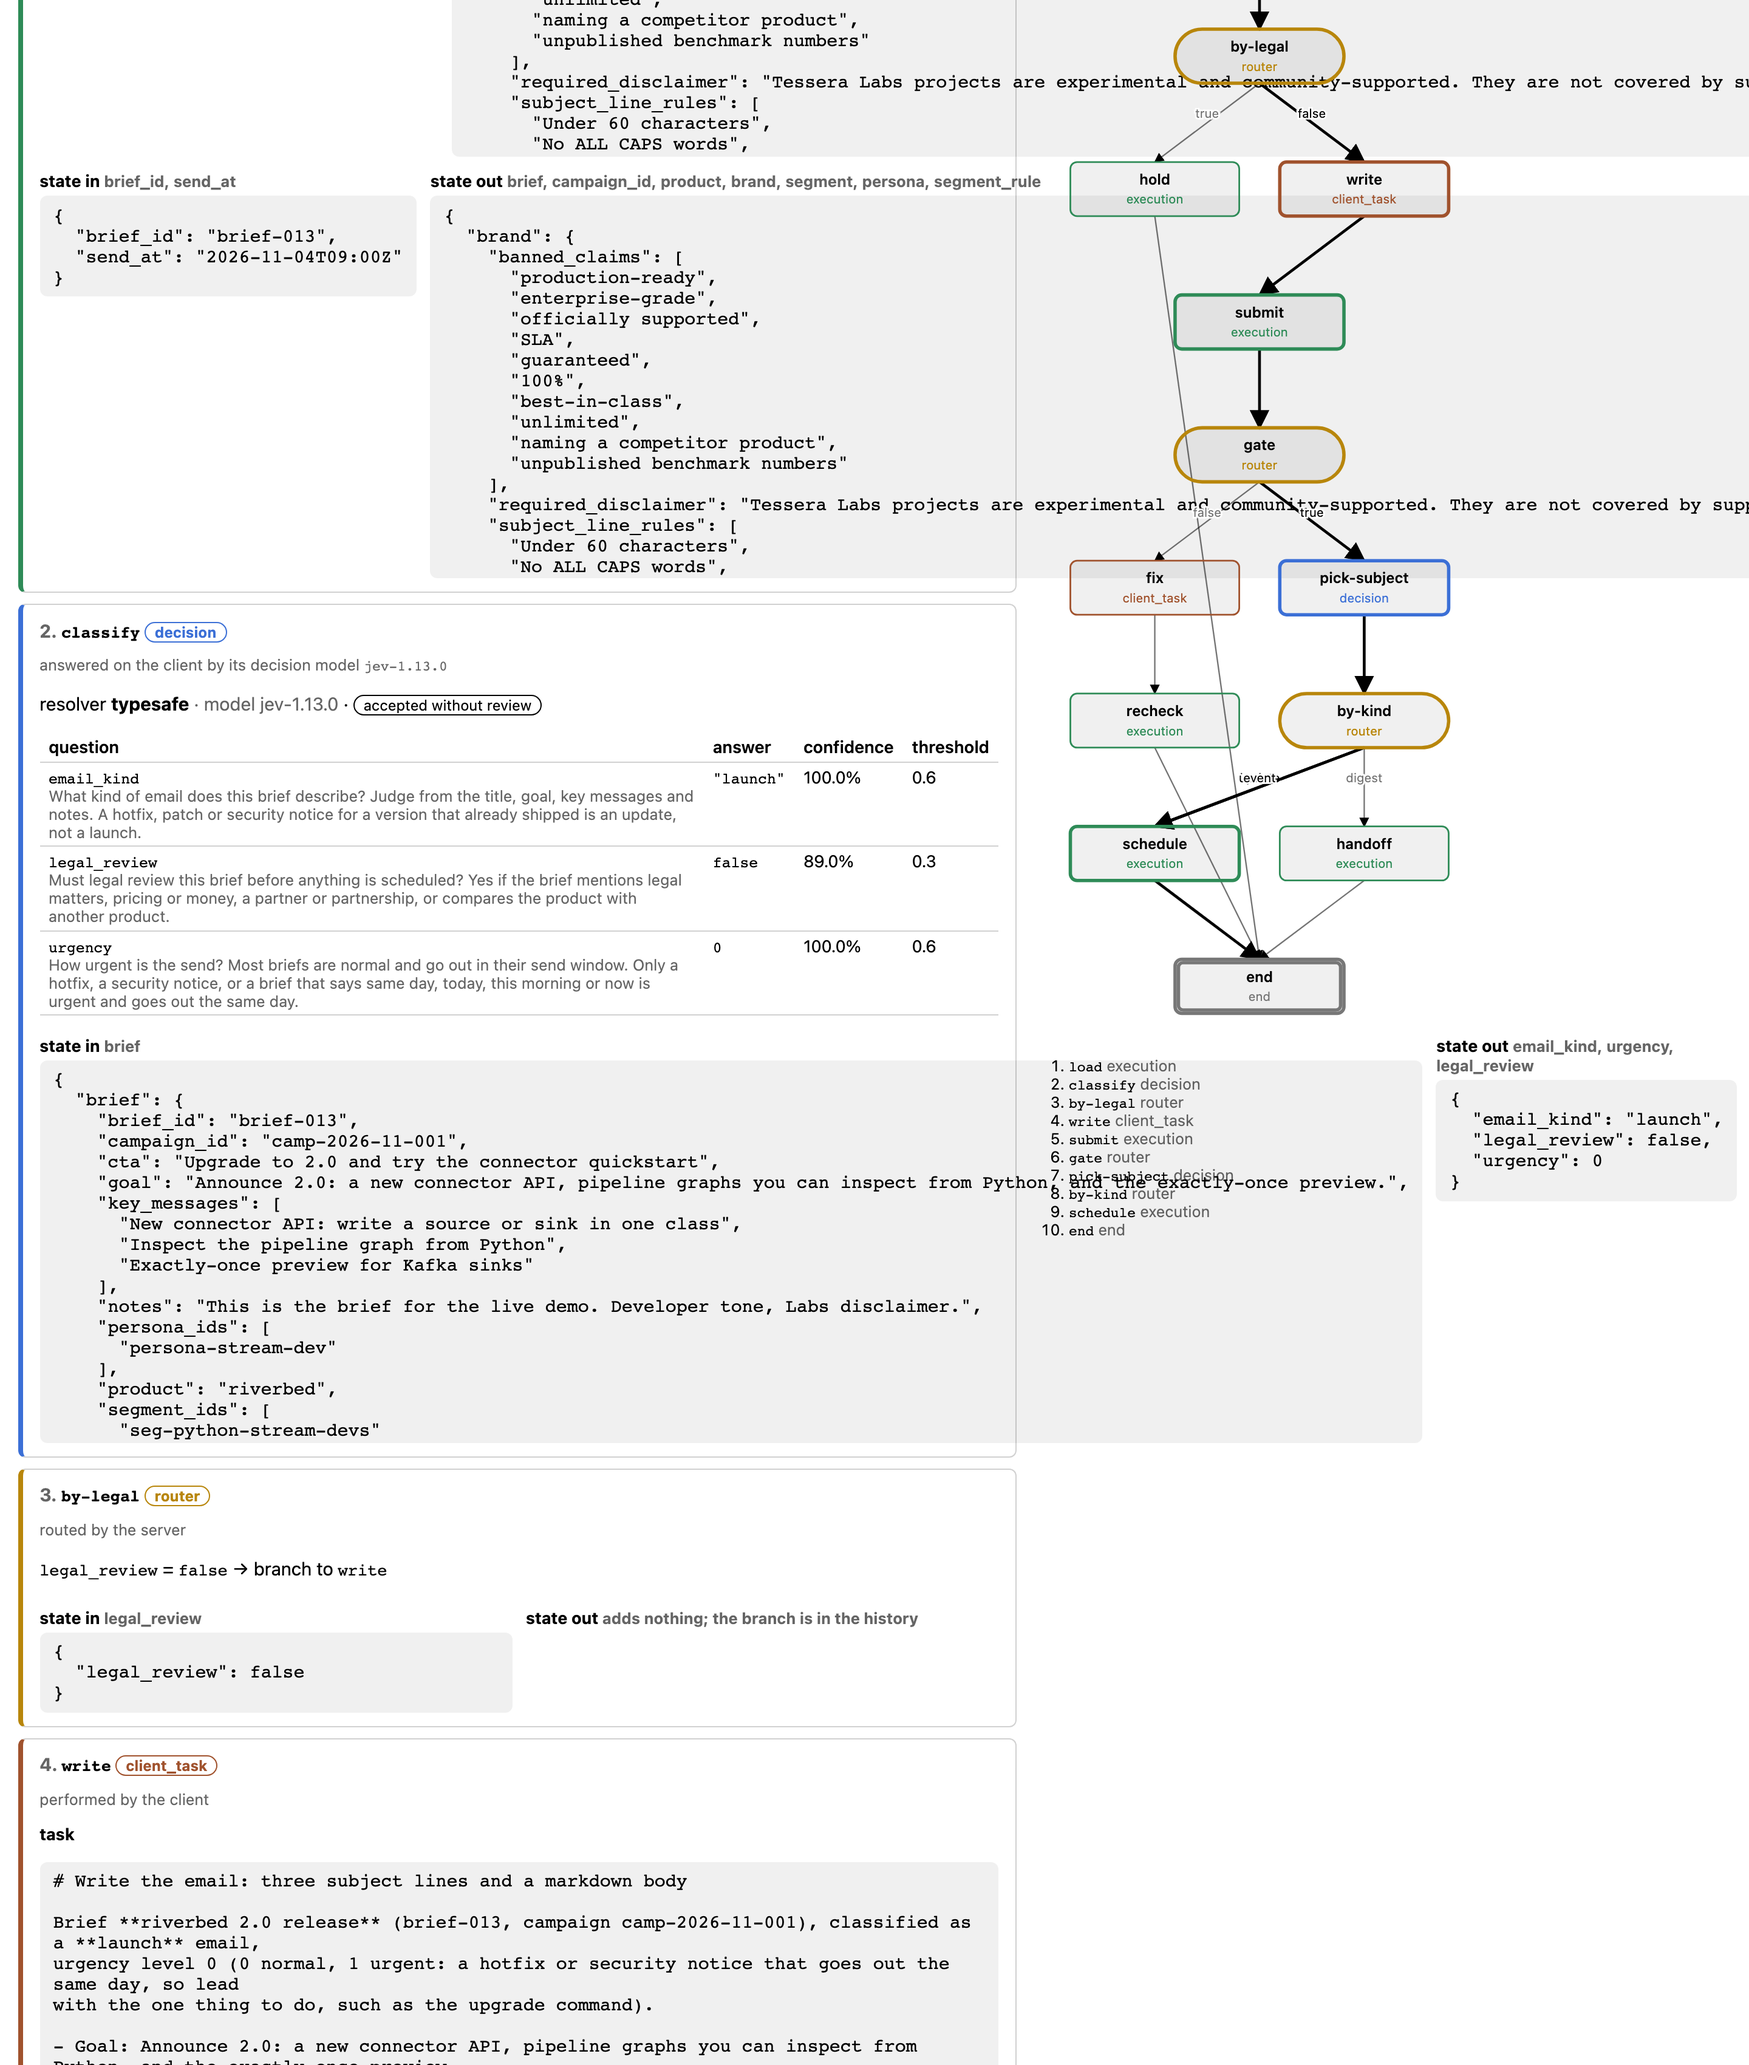
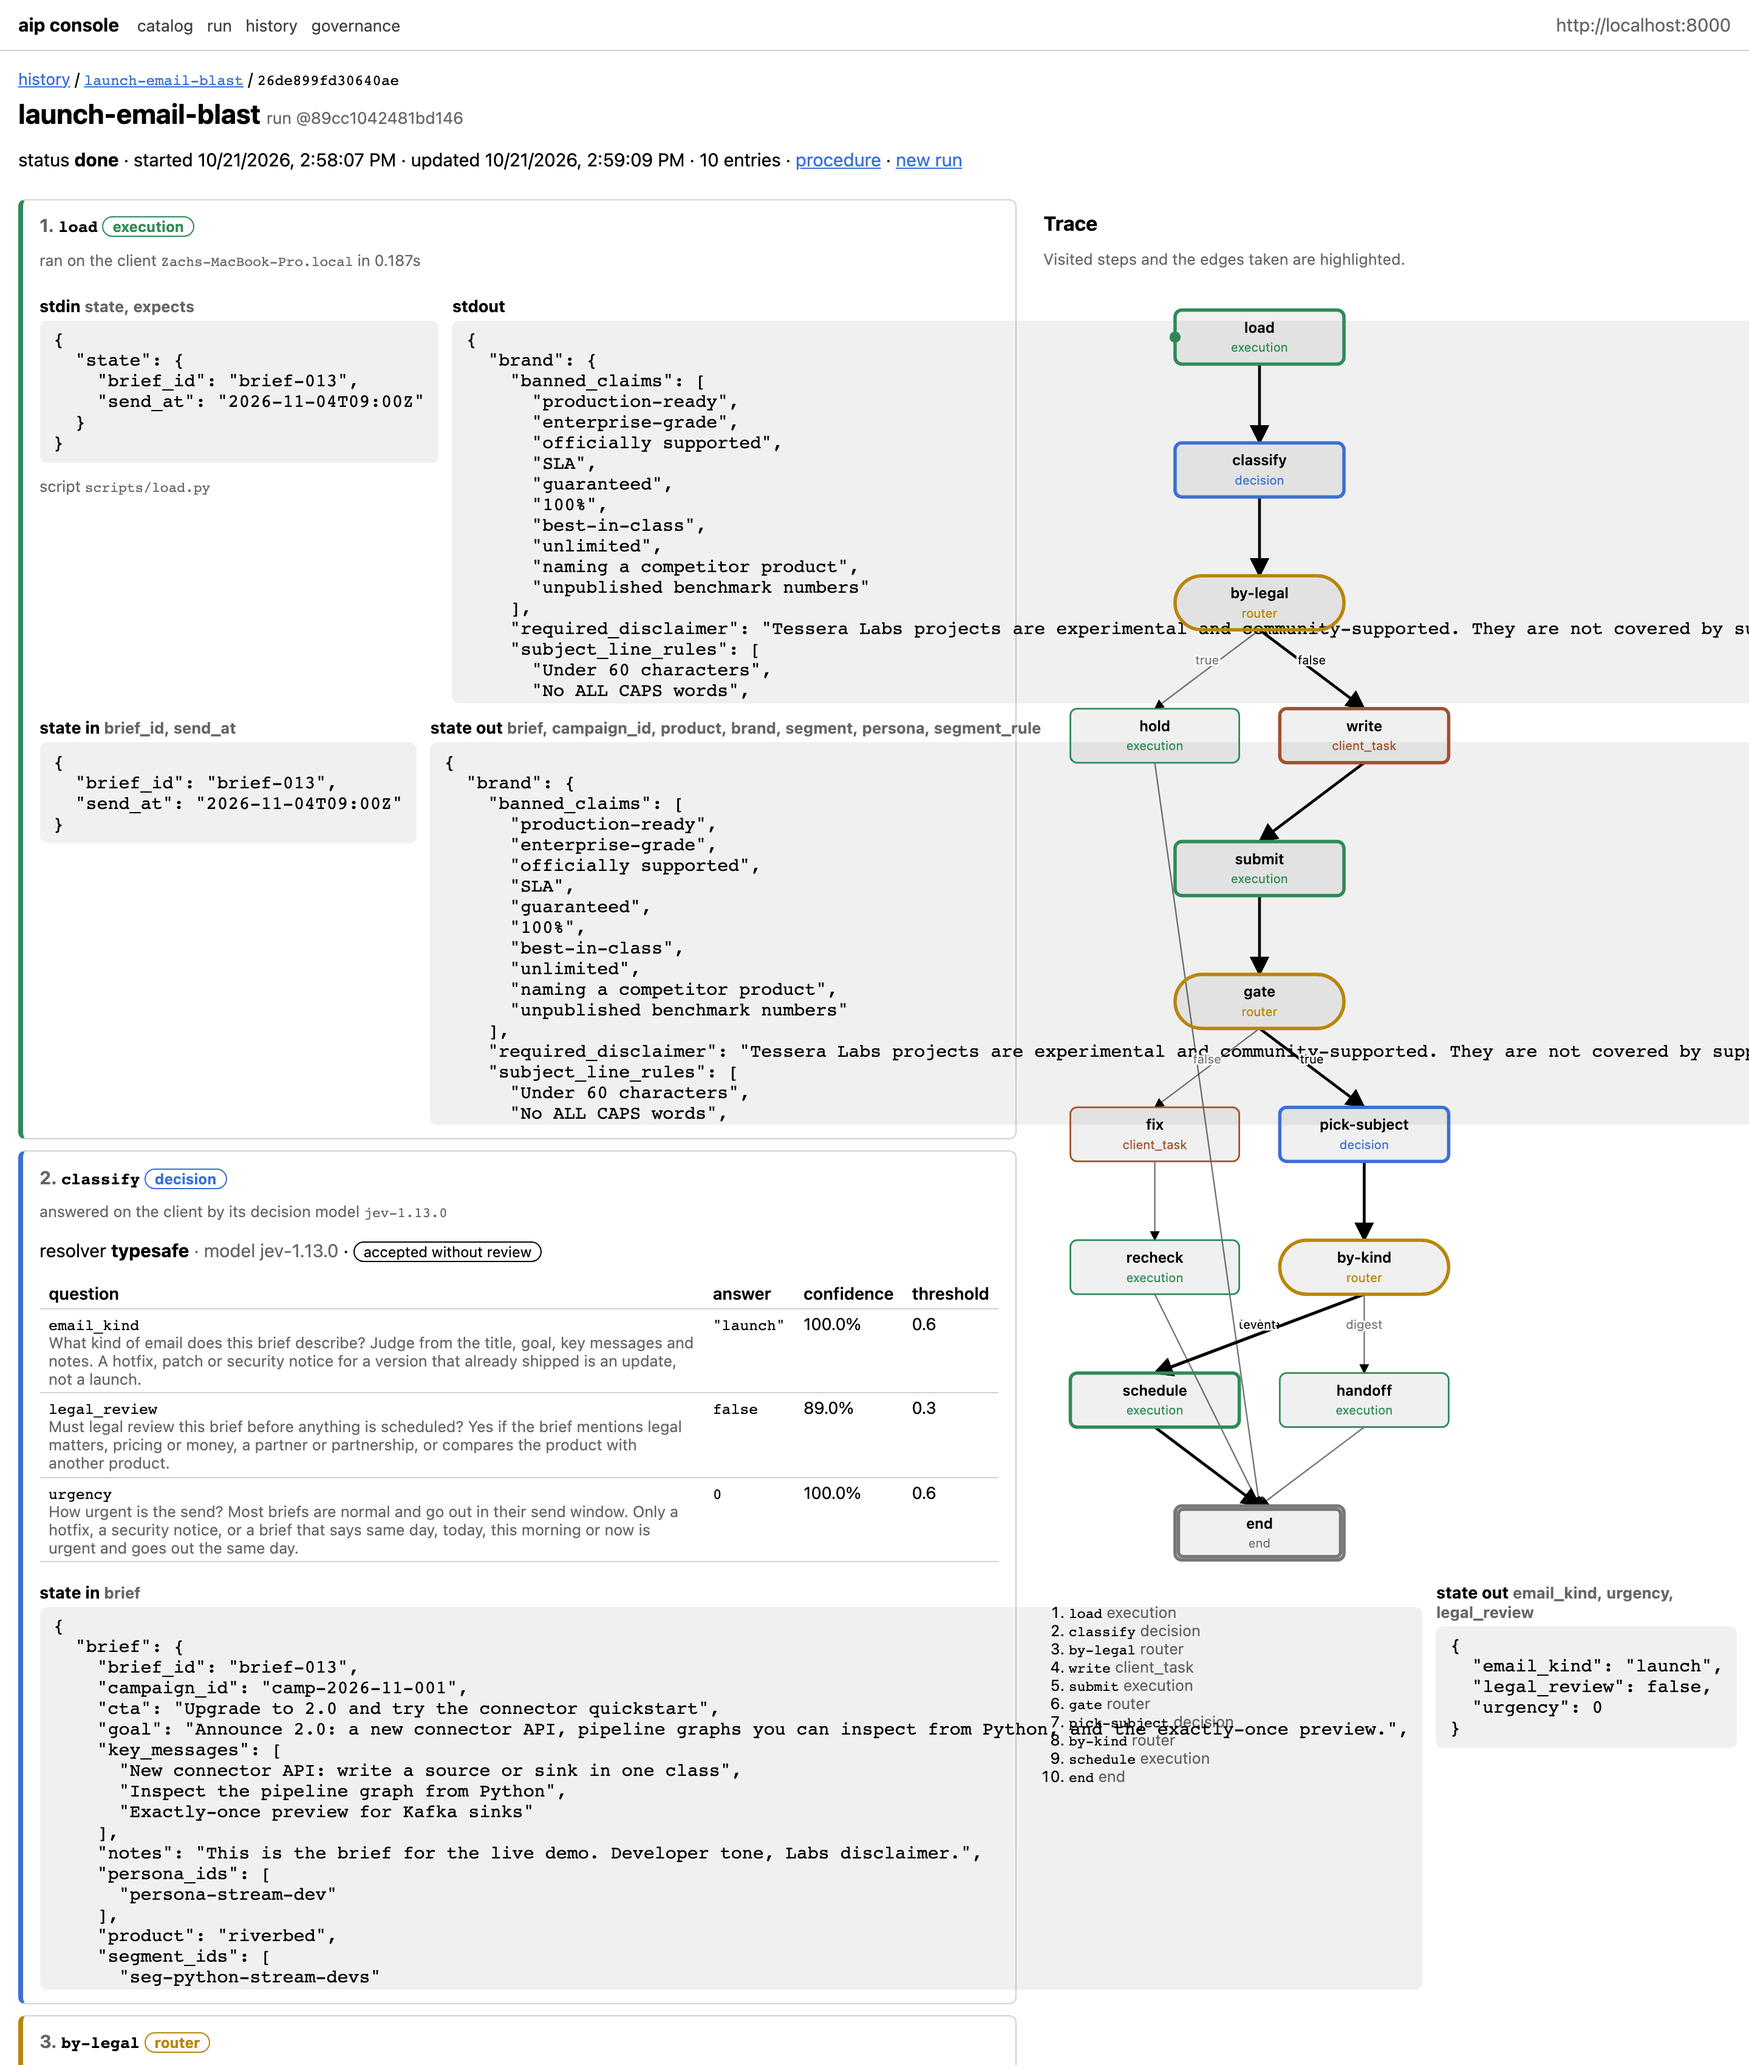
loan-demo PLAN on the 0.6a1 revisions; aip-demo console screenshots top-anchored

diff --git a/loan-demo/PLAN.md b/loan-demo/PLAN.md
@@ -4,8 +4,9 @@ The business-loan assessment, done the open-source way: agent-memory SDK over bo
 Claude Code doing the job from the credit team's page, five traces distilled into an AIP skill, run on
 the aip server with Jev answering the decisions, one rule added, revision 2 run on the same application.
 
-Two databases. Memory: the Aura instance in this folder's `.env`. AIP catalog and runs: the instance in
-`~/.config/aip/server.toml` (shared with aip-demo; it is catalog-only, never memory).
+Two databases. Memory: the instance in this folder's `.env` (Aura for the first build; a local Neo4j in
+Docker for the 0.6a1 rebuild of 2026-10-21). AIP catalog and runs: the instance in `~/.config/aip/server.toml`
+(shared with aip-demo; it is catalog-only, never memory). Since aip 0.6 the TypeSafe key lives on the client.
 
 ## What was built, in order
 
@@ -22,12 +23,13 @@ Two databases. Memory: the Aura instance in this folder's `.env`. AIP catalog an
    `checkpoints/traces/run-0[1-5].json`. `loan verify traces`.
 5. **Distill**: `loan traces export` → `source/`, `prompts/author.md` + the `aip` skill →
    `skills/assess-business-loan/` (version 1), validated, one local run on APP-1002.
-6. **Serve and run**: `aip publish` (revision 63c33c7be679ea32), three server runs through `claude` +
-   aip-runtime: APP-1005 twice (match), APP-1004 (Jev confident, no review pause), plus APP-1001 on
-   revision 1 (review pause, G1 stop). `checkpoints/03-publish.json`, `checkpoints/04-live-runs.md`.
-7. **Edit**: R7 `connected_exposure_cap` in the fixture, the prose and the engine; `loan import
-   --rules-only`; the skill's `precedents.py` honours a `human` effect; version 2 published
-   (1c4e170b79c08bb1); APP-1001 on revision 2 stops for a human naming R7.
+6. **Serve and run**: `aip publish` (revision 8ffe579680fbdf23 in the 0.6a1 rebuild), four runs through
+   `claude` + aip-runtime with the scripts and Jev on the client: APP-1005 twice (match), APP-1004 (Jev
+   confident, no review pause), APP-1001 (review pause, G1 stop). `checkpoints/03-publish.json`,
+   `checkpoints/04-live-runs.md`.
+7. **Edit**: R7 `connected_exposure_cap` in the fixture, the prose and the engine; `make rule` (`loan import
+   --rules-only`); the skill's `precedents.py` and `record.py` honour a `human` effect; version 2 published
+   (946cbe6ba6a55848); APP-1001 on revision 2 stops for a human naming R7.
 8. **Docs**: `README.md`, `docs/{import,recording,compile}.md`, `queries.md` (every query run against
    its database).
 
